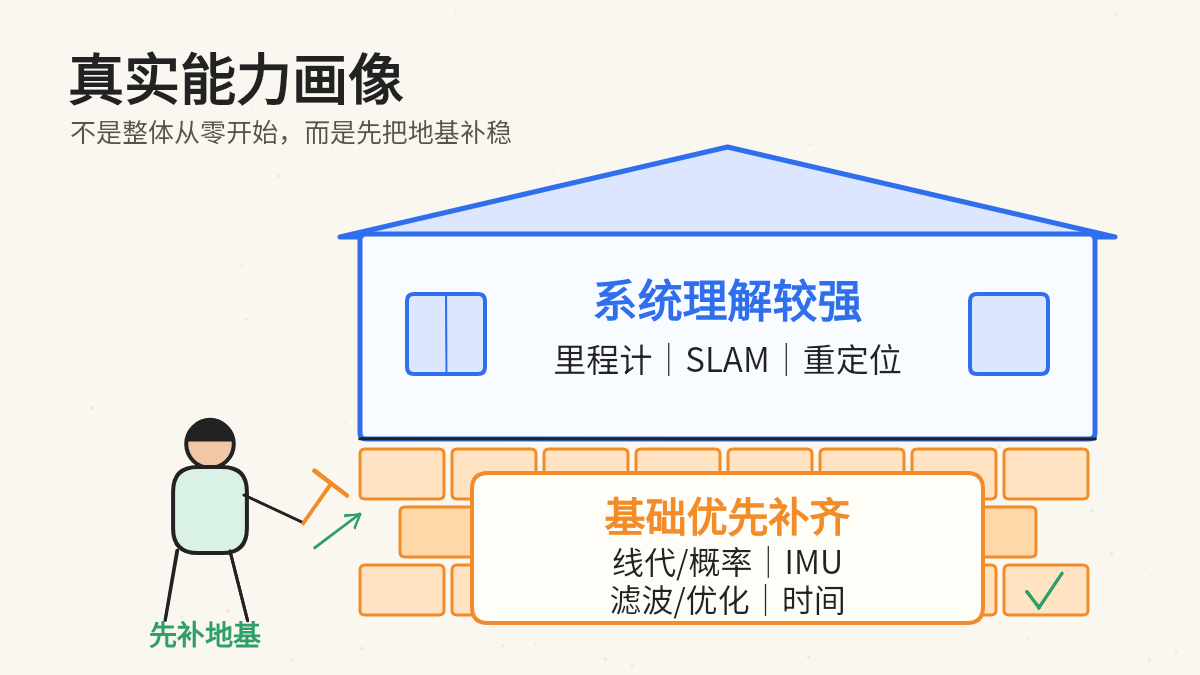
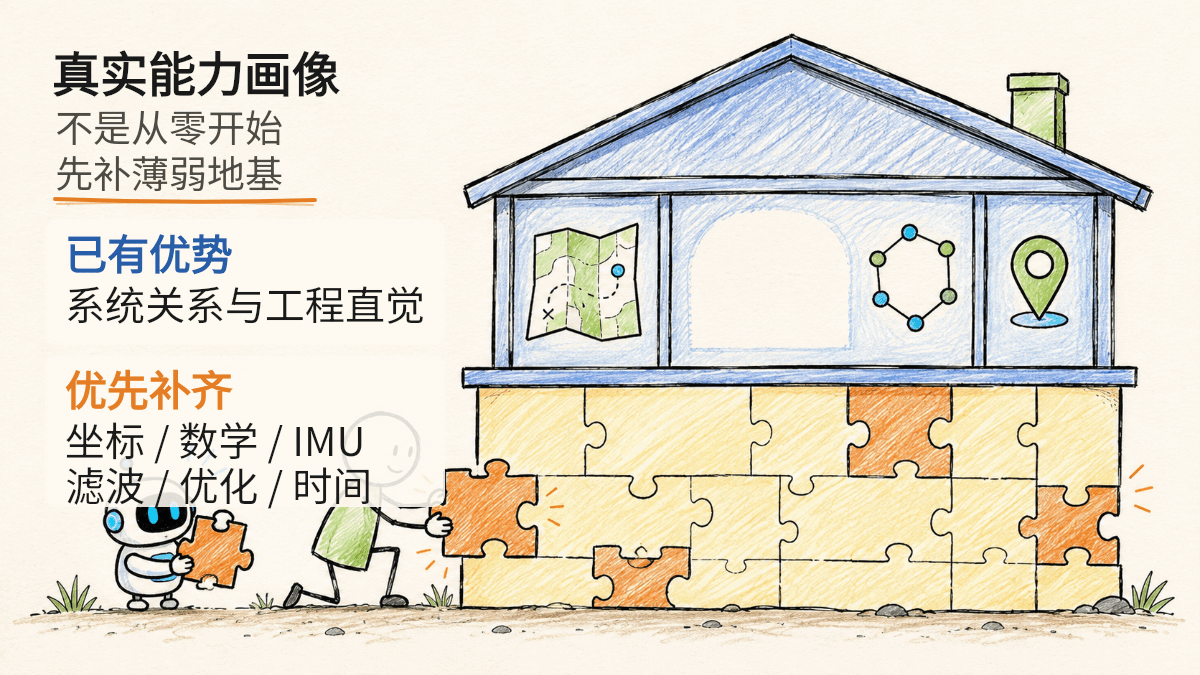
docs: refine social review opening and visuals

diff --git a/articles/00_diagnostic_review_social.md b/articles/00_diagnostic_review_social.md
@@ -1,8 +1,38 @@
 # 我用 ChatGPT 实践“十倍学习法”学习定位建图：第一次诊断复盘
 
+我是自动驾驶感知算法工程师，有深度学习和多传感器工程经验，也接触过定位、SLAM 与重定位。但真正准备系统学习时，我一直无法准确回答：这些知识，我是真正掌握了，还是只是看过、用过？
+
+过去，我通常先让 ChatGPT 解释概念。这一次，我参考 [Rahul 的文章](https://x.com/sairahul1/article/2068250224532050089)，把顺序反了过来：先定义可验证能力，再围绕九个模块进行闭卷诊断，诊断结束后才制定学习计划。
+
+第一道题就暴露了问题：坐标变换链的表达式我写对了，但一追问乘法顺序，我就解释不清；随后还把完整刚体变换的逆误写成了转置。本文记录我是怎样完成诊断的、它暴露了哪些“以为会了”的知识漏洞，以及这些结论怎样变成能力画像、20 小时路线、核心资源和公开学习仓库。
+
 ![我先让 ChatGPT 考我，而不是教我](assets/diagnostic_review/diagnostic_review_cover.png)
 
-第一道坐标变换题，我答对了。
+## 我先把“学会定位建图”改成可检查的目标
+
+“学会定位建图”太模糊，我先把目标拆成五种可验证能力：
+
+- 画清系统、坐标系、时间和数据流；
+- 解释算法解决的问题，以及输入和输出；
+- 理解关键公式中的变量、坐标、单位、假设和误差；
+- 运行最小代码，并分析结果与失败原因；
+- 根据传感器、场景、算力和精度要求选择方案。
+
+在整个学习过程中，我让 ChatGPT 分别承担学习教练、严格考官和工程评审三种角色；本轮诊断主要启用后两种角色。诊断覆盖九个模块：坐标变换、线性代数、概率估计、传感器、ROS 与系统工程、滤波与优化、里程计、SLAM、重定位。
+
+我原本给诊断设定了这些规则：一次只问一题，我闭卷回答；回答前不给提示，回答后只标出正确、遗漏和错误；诊断结束以前，不正式授课，也不提前生成完整计划。
+
+这些规则的目的，是避免标准答案制造熟悉感，尽量保留当时的能力边界。
+
+![从目标、闭卷诊断到学习方案与仓库证据的实际使用路径](assets/diagnostic_review/diagnostic_review_actual_path.png)
+
+## 三个“我以为会了”的瞬间
+
+九个模块里，真正改变我学习顺序的不是分数。最能代表这种变化的是下面三个错误。
+
+![坐标变换、概率融合和 IMU 暴露出的三个理解漏洞](assets/diagnostic_review/diagnostic_review_false_mastery.png)
+
+### 坐标变换：会连坐标链，求逆仍然会错
 
 ChatGPT 要我把 `base` 坐标系中的点变换到 `map` 坐标系，我写出了：
 
@@ -13,45 +43,7 @@ $$
 {}^{\mathrm{base}}\mathbf p
 $$
 
-但它继续问：“为什么是这个顺序？”
-
-我只能说，相邻的上下标可以“消掉”，却解释不清为什么这里采用左乘。随后，我又把完整刚体变换的逆误写成了转置。
-
-这让我看到一种很隐蔽的“会”：常用形式记住了，真正的约定、复合关系和求逆方法却没有掌握。
-
-所以这一次，我没有先让 ChatGPT 教我，而是先让它考我。
-
-## 我先把“学会定位建图”改成可检查的目标
-
-我是自动驾驶感知算法工程师，有深度学习和多传感器工程经验，也接触过定位、SLAM 与重定位。我不是从零开始，但知识结构很不均匀：系统关系大致能讲清，数学、坐标和 IMU 基础却常停在“看过、用过”的程度。
-
-我参考 Rahul 的文章 [*How To Learn Anything 10x Faster Using Claude*](https://x.com/sairahul1/article/2068250224532050089)，把其中的学习阶梯、主动测试、知识压缩和反馈循环迁移到 ChatGPT。然后在最前面增加一步：**先诊断，再规划。**
-
-![从目标、闭卷诊断到学习方案与仓库证据的实际使用路径](assets/diagnostic_review/diagnostic_review_actual_path.png)
-
-“学会定位建图”太模糊，我先把目标拆成五种可验证能力：
-
-- 画清系统、坐标系、时间和数据流；
-- 解释算法解决的问题，以及输入和输出；
-- 理解关键公式中的变量、坐标、单位、假设和误差；
-- 运行最小代码，并分析结果与失败原因；
-- 根据传感器、场景、算力和精度要求选择方案。
-
-接着，我让 ChatGPT 同时扮演学习教练、严格考官和工程评审。诊断覆盖九个模块：坐标变换、线性代数、概率估计、传感器、ROS 与系统工程、滤波与优化、里程计、SLAM、重定位。
-
-一次只问一题，我闭卷回答。回答前不给提示，回答后只标出正确、遗漏和错误。诊断结束以前，不正式授课，也不提前生成完整计划。
-
-这样得到的不是我看完标准答案后的熟悉感，而是当时真实的能力边界。
-
-## 三个“我以为会了”的瞬间
-
-![坐标变换、概率融合和 IMU 暴露出的三个理解漏洞](assets/diagnostic_review/diagnostic_review_false_mastery.png)
-
-九个模块里，真正改变我学习顺序的不是分数。最能代表这种变化的是下面三个错误。
-
-### 坐标变换：会连坐标链，求逆仍然会错
-
-前面的变换链没有写错。仓库采用列向量，所以右侧变换先作用：先把点从 `base` 表达到 `odom`，再从 `odom` 表达到 `map`。所谓“上下标消掉”只是一种检查方法，不是原因本身。
+这个结果没有写错。仓库采用列向量，所以右侧变换先作用：先把点从 `base` 表达到 `odom`，再从 `odom` 表达到 `map`。所谓“上下标消掉”只是一种检查方法，不是原因本身。
 
 我真正算错的是齐次变换的逆。旋转矩阵满足 $\mathbf R^{-1}=\mathbf R^{\mathsf T}$，但完整刚体变换还包含平移：
 
@@ -119,7 +111,7 @@ ChatGPT 问“IMU 和轮速计直接测量什么”，我最初把 IMU 说成直
 
 ChatGPT 给出的模块分数只用于比较相对强弱，不是标准化考试，也不是能力认证。更重要的结论是：我不需要从“什么是 SLAM”开始平均学习所有内容，而应先加固底层，再把它们接回已有的系统知识。
 
-模块评分、主要缺口和错误索引保存在[第一次诊断报告](../docs/00_learning_system/diagnostic_report.md)与[错误索引](../docs/00_learning_system/error_index.md)中。
+模块评分与主要缺口保存在[第一次诊断报告](../docs/00_learning_system/diagnostic_report.md)中，错误索引作为配套文档保存在同一目录。
 
 ## 诊断之后，我才生成学习阶梯、资源和 20 小时路线
 
@@ -137,7 +129,7 @@ ChatGPT 给出的模块分数只用于比较相对强弱，不是标准化考试
 
 第二类是第一轮 20 小时路线，共 10 个两小时单元。前六个分别补坐标变换、刚体位姿、传感器与时间、最小二乘、概率与 Kalman、IMU 与轮速；后四个再连接局部里程计、滤波与因子图、SLAM 全局修正、重定位与系统设计。
 
-20 小时不是“学会全部 SLAM”的承诺。第一轮目标只是补稳第二级、稳定第三级，并开始积累第四级的实验与故障分析证据。每个单元都要留下“诊断—学习—推导—实现—复盘—输出”的证据链，再把核心概念、公式和常见错误压缩成一张知识卡。完整安排见[学习地图](../docs/00_learning_system/learning_map.md)与[进度记录](../docs/00_learning_system/progress.md)。
+20 小时不是“学会全部 SLAM”的承诺。第一轮目标只是补稳第二级、稳定第三级，并开始积累第四级的实验与故障分析证据。每个单元都要留下“诊断—学习—推导—实现—复盘—输出”的证据链，再把核心概念、公式和常见错误压缩成一张知识卡。完整安排见[学习地图](../docs/00_learning_system/learning_map.md)，进度记录保存在同一目录。
 
 第三类是五个核心资源：Strang 的 *Introduction to Linear Algebra*、Barfoot 的 *State Estimation for Robotics*、ROS tf2 与 REP-105、GTSAM 文档、RTAB-Map 文档。它们是遇到问题时查阅的事实锚点，不是要求从头到尾同时通读的书单，也不能被 AI 生成内容替代。资料入口见[阅读清单](../references/reading_list.md)。
 
@@ -153,7 +145,7 @@ ChatGPT 给出的模块分数只用于比较相对强弱，不是标准化考试
 
 首个[坐标变换链最小实验](../experiments/exp_001_transform_chain/README.md)已经建立并跑通。它只验证一件事：点从 `base` 到 `odom`、再到 `map` 的逐步变换，与先复合两个变换再直接计算，结果在浮点误差内一致。
 
-这不是 ROS 2 TF 实验，也不能证明我已经掌握坐标变换。它的价值在于把一句“我应该懂了”，变成可重复运行的代码、测试结果和[调试记录](../experiments/exp_001_transform_chain/debug.md)。
+这不是 ROS 2 TF 实验，也不能证明我已经掌握坐标变换。它的价值在于把一句“我应该懂了”，变成可重复运行的代码、测试结果和调试记录。
 
 按照这套仓库设计，后续每次学习都要依次留下：原始回答、错误类型、能力画像、学习顺序、推导或代码、验证结果和下一次复习计划。
 
@@ -173,7 +165,7 @@ ChatGPT 给出的模块分数只用于比较相对强弱，不是标准化考试
 - 按概念、推理、计算、符号、坐标时间和工程边界给错误分类；
 - 重要结论必须用教材、官方文档、代码或实验交叉验证。
 
-我还建立了当天以及第 1、3、7、14、30 天的[延迟复习计划](../docs/00_learning_system/review_schedule.md)。不过它目前只是计划，只有错误不再复发，并能迁移到代码和项目中，才算真正过关。
+我还建立了当天以及第 1、3、7、14、30 天的延迟复习计划。不过它目前只是计划，只有错误不再复发，并能迁移到代码和项目中，才算真正过关。
 
 ## 如果你也想试，可以从这段提示词开始
 
@@ -186,7 +178,7 @@ ChatGPT 给出的模块分数只用于比较相对强弱，不是标准化考试
 请先把“学会这个主题”改写成 3～5 种可验证能力。
 
 然后先诊断，不要系统授课：
-- 先列出不超过 6～9 个核心诊断模块；
+- 先列出不超过 9 个核心诊断模块；
 - 按基础模块依次检查，一次只问一道题；
 - 我回答前不给提示或答案；
 - 我回答后指出正确、遗漏、错误类型和后续学习项；
